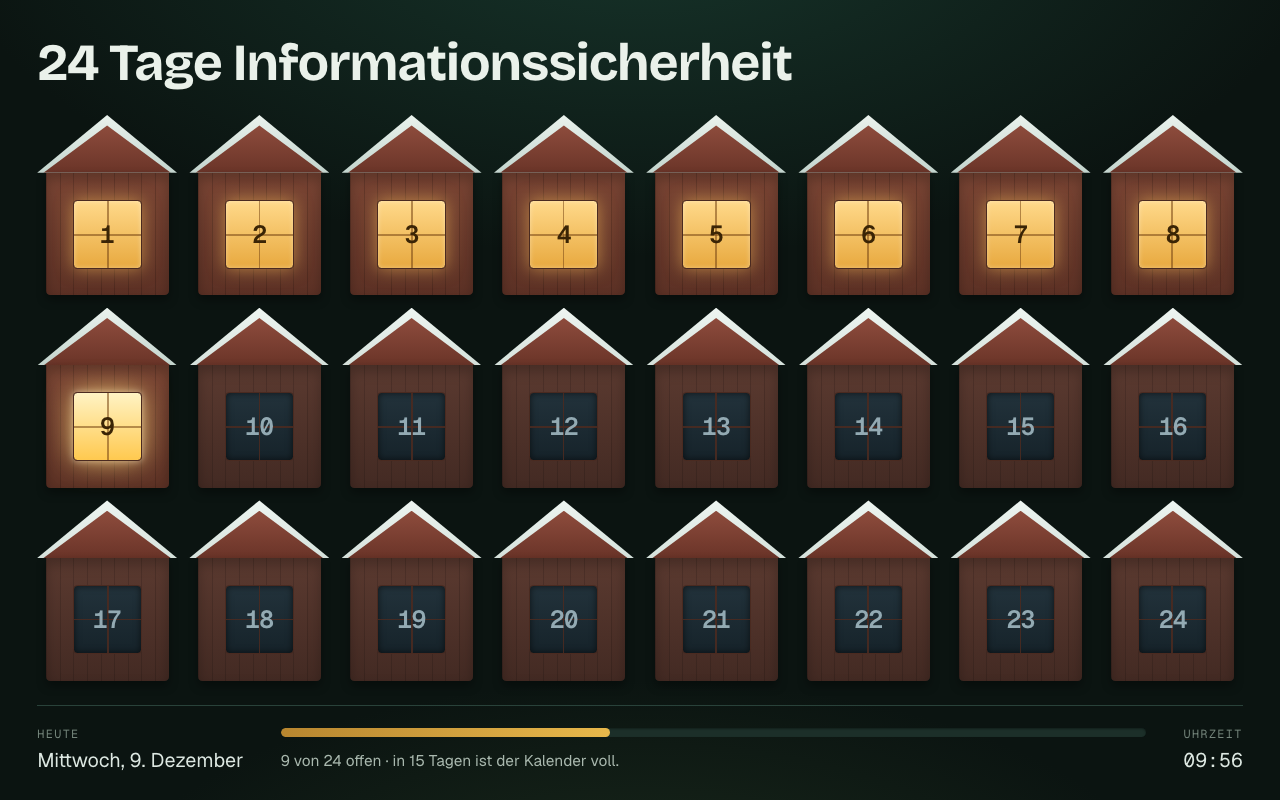
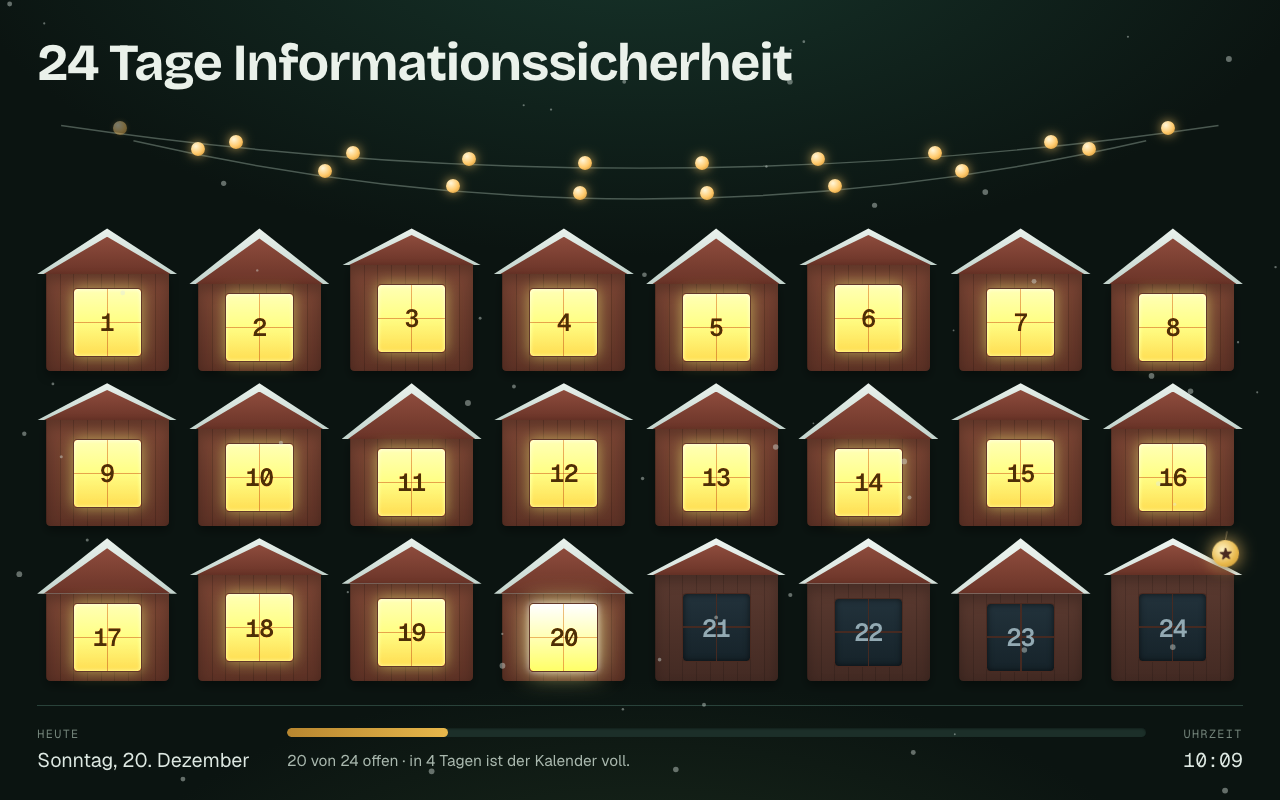
Dorf: Lichterkette, drei Dachhöhen, Sternenschild über Tür 24
Lichterkette: zwei durchhängende Ketten über dem Raster. Die Kurve zeichnet
app.js in echten Pixeln (nicht in einer 100er-ViewBox, sonst wird der
Durchhang auf die flache Leiste gestaucht); die Birnen sind HTML-Punkte
darüber, damit sie rund bleiben, und blinken jede in eigener Phase. Der
Stage-Grid hat jetzt vier Zeilen — die Kette bekam vorher eine implizite
auto-Zeile und drückte das Board über den Rand.

Dachhöhen: drei Varianten im Wechsel, deterministisch aus dem Tag. Das Dorf
wirkt gewachsen, bleibt aber bei jedem Laden gleich.

Sternenschild: hängt seitlich am Dach von Tür 24 und schwingt leicht. Mittig
über dem First ragte es in die Hütte der Reihe darüber.

Selftests decken alle drei ab (drei Dachhöhen, genau ein Schild an Tür 24,
18 Birnen) — 31 grün.

diff --git a/static/app.js b/static/app.js
@@ -148,6 +148,9 @@ function renderBoard() {
     // Eine kleine Holzhütte: Dach mit Schnee, Holzwand, Fenster mit der Zahl.
     const hut = document.createElement("span");
     hut.className = "hut";
+    // Drei Dachhöhen im Wechsel, deterministisch aus dem Tag: Das Dorf wirkt
+    // gewachsen statt gestempelt, bleibt aber bei jedem Laden gleich.
+    hut.dataset.roof = String((day % 3) + 1);
 
     const roof = document.createElement("span");
     roof.className = "hut-roof";
@@ -165,6 +168,16 @@ function renderBoard() {
     window_.appendChild(num);
     body.appendChild(window_);
     hut.append(roof, body);
+
+    if (day === 24) {
+      // Schild über dem Dach: markiert den Heiligabend-Hütte im Dorf.
+      const sign = document.createElement("span");
+      sign.className = "hut-sign";
+      sign.setAttribute("aria-hidden", "true");
+      sign.textContent = "★";
+      hut.appendChild(sign);
+    }
+
     btn.appendChild(hut);
 
     btn.addEventListener("click", () => onDoorClick(day, item, open));
@@ -510,6 +523,84 @@ function snow() {
   requestAnimationFrame(frame);
 }
 
+/* --- Lichterkette ------------------------------------------------------ */
+/* Zwei durchhängende Ketten über dem Dorf. Gezeichnet in echten Pixeln statt
+ * mit CSS: So bleiben die Birnen rund und die Kette hängt glaubwürdig durch.
+ * Gezeichnet wird nur einmal je Größe; die Birnen blinken über CSS. */
+
+function drawGarland() {
+  const host = $("garland");
+  if (!host) return;
+  const width = host.clientWidth;
+  const height = host.clientHeight;
+  if (!width || !height) return;
+
+  const NS = "http://www.w3.org/2000/svg";
+  const svg = document.createElementNS(NS, "svg");
+  // Echte Pixel statt einer 100er-Höhe: sonst wird der Durchhang auf die
+  // flache Leiste gestaucht und die Kette wirkt schnurgerade.
+  svg.setAttribute("viewBox", `0 0 ${width} ${height}`);
+  svg.setAttribute("width", "100%");
+  svg.setAttribute("height", "100%");
+
+  const bulbSize = Math.max(6, Math.min(14, width / 85));
+
+  // Zwei Ketten, die sich nicht kreuzen: die hintere hängt höher und
+  // flacher, die vordere tiefer und stärker durch.
+  // sag ist der Abstand von der Aufhängung bis zum tiefsten Punkt. Bei einer
+  // quadratischen Bézier liegt die Kurve bei der halben Kontrollpunkt-Höhe,
+  // deshalb wird der Kontrollpunkt doppelt so tief gesetzt.
+  // Die zweite Kette hängt vollständig unter der ersten — gleiche Aufhängung
+  // an den Rändern würde sie in der Mitte kreuzen und wie ein X wirken.
+  const chains = [
+    { from: 0.02, to: 0.98, top: height * 0.06, sag: height * 0.50, count: 10 },
+    { from: 0.08, to: 0.92, top: height * 0.24, sag: height * 0.68, count: 8 },
+  ];
+
+  const bulbs = [];
+  for (const c of chains) {
+    const x0 = width * c.from;
+    const x1 = width * c.to;
+    const cx = (x0 + x1) / 2;
+    const y = c.top;
+    const bottom = y + c.sag * 2;
+    const d = `M ${x0} ${y} Q ${cx} ${bottom} ${x1} ${y}`;
+
+    const path = document.createElementNS(NS, "path");
+    path.setAttribute("d", d);
+    path.setAttribute("fill", "none");
+    path.setAttribute("stroke", "rgb(150 170 158 / 0.45)");
+    path.setAttribute("stroke-width", "1.5");
+    svg.appendChild(path);
+
+    // Birnen auf der quadratischen Bézier verteilen
+    for (let i = 0; i < c.count; i++) {
+      const t = (i + 0.5) / c.count;
+      const mt = 1 - t;
+      bulbs.push({
+        x: mt * mt * x0 + 2 * mt * t * cx + t * t * x1,
+        y: mt * mt * y + 2 * mt * t * bottom + t * t * y,
+        i: bulbs.length,
+      });
+    }
+  }
+
+  // Birnen als HTML-Punkte über dem SVG: So bleiben sie rund.
+  host.replaceChildren(svg);
+  for (const b of bulbs) {
+    const dot = document.createElement("span");
+    dot.className = "bulb";
+    dot.style.left = `${b.x}px`;
+    dot.style.top = `${b.y}px`;
+    dot.style.width = `${bulbSize}px`;
+    dot.style.height = `${bulbSize}px`;
+    // Unregelmäßiges Blinken: jede Birne hat ihre eigene Phase.
+    dot.style.animationDelay = `${(b.i * 0.37) % 3}s`;
+    dot.style.animationDuration = `${2.4 + (b.i % 4) * 0.45}s`;
+    host.appendChild(dot);
+  }
+}
+
 /* --- Listenansicht (?liste=1) ------------------------------------------ */
 /* Zum Korrekturlesen aller Texte auf einem Blick, ohne 24-mal zu klicken.
  * Bewusst ohne Schnee und ohne Automatik: Es geht ums Lesen. */
@@ -517,6 +608,7 @@ function snow() {
 function renderList() {
   const stage = document.querySelector(".stage");
   document.querySelector("canvas")?.remove();
+  document.querySelector(".garland")?.remove();
   document.querySelector(".foot")?.remove();
   document.querySelector(".masthead")?.remove();
 
@@ -613,6 +705,7 @@ async function start() {
   }
 
   snow();
+  drawGarland();
 
   if (params.get("tur")) {
     const forced = Number(params.get("tur"));
@@ -624,6 +717,12 @@ async function start() {
   setInterval(tick, 1000);
   tick();
 }
+
+let garlandTimer = null;
+addEventListener("resize", () => {
+  clearTimeout(garlandTimer);
+  garlandTimer = setTimeout(drawGarland, 150);
+});
 
 /* Eingaben, die die Automatik pausieren und den Dialog schließen. */
 addEventListener("pointerdown", () => pauseAuto(), { passive: true });

diff --git a/static/style.css b/static/style.css
@@ -109,7 +109,9 @@
     min-height: 100svh;
     height: 100svh;
     display: grid;
-    grid-template-rows: auto minmax(0, 1fr) auto;
+    /* Kopf · Lichterkette · Dorf · Fuß. Die Kette bekommt ihre eigene Zeile,
+     * sonst landet das Board in einer impliziten auto-Zeile und läuft über. */
+    grid-template-rows: auto auto minmax(0, 1fr) auto;
     /* Grid-Kinder haben min-width:auto — ohne das schiebt ein langer Text
      * die ganze Seite breiter als den Bildschirm. */
     grid-template-columns: minmax(0, 1fr);
@@ -138,6 +140,35 @@
     /* Kein max-width: Der Titel bricht an der Wortgrenze um
      * („24 Tage" / „Informationssicherheit") statt mitten im Wort. */
     text-wrap: balance;
+  }
+
+  /* --- Lichterkette ----------------------------------------------------- */
+  /* Zwei Ketten hängen über dem Dorf. Die Kurve zeichnet app.js in SVG,
+   * die Birnen sind HTML-Punkte darüber — so bleiben sie rund und blinken
+   * unabhängig voneinander. */
+  .garland {
+    position: relative;
+    /* Genug Höhe für einen sichtbaren Durchhang: Bei 1280 × 800 sind das
+     * 96 px, auf dem Kiosk entsprechend mehr. */
+    height: clamp(3rem, 12svmin, 9rem);
+    pointer-events: none;
+    /* Die unteren Birnen hängen leicht in den Rand des Rasters hinein. */
+    margin-bottom: calc(var(--u) * -0.6);
+    overflow: visible;
+  }
+  .garland svg { display: block; width: 100%; height: 100%; }
+  .bulb {
+    position: absolute;
+    border-radius: 50%;
+    transform: translate(-50%, -50%);
+    background: radial-gradient(circle at 35% 30%, #FFF6D8, #FFC96B 55%, #C98A2A);
+    box-shadow: 0 0 calc(var(--u) * 0.9) rgb(255 205 110 / 0.75);
+    animation: bulb-twinkle 2.8s ease-in-out infinite;
+  }
+
+  @keyframes bulb-twinkle {
+    0%, 100% { opacity: 0.45; box-shadow: 0 0 calc(var(--u) * 0.4) rgb(255 205 110 / 0.35); }
+    50%      { opacity: 1;    box-shadow: 0 0 calc(var(--u) * 1.2) rgb(255 215 130 / 0.9); }
   }
 
   /* --- Raster ----------------------------------------------------------- */
@@ -179,6 +210,12 @@
     height: 100%;
     transition: transform 160ms ease;
   }
+
+  /* Drei Dachhöhen im Wechsel — ein Dorf, kein Stempelraster. Der Anteil
+   * geht zu Lasten der Wand, die Hütte bleibt gleich hoch. */
+  .hut[data-roof="1"] { grid-template-rows: 26% 74%; }
+  .hut[data-roof="2"] { grid-template-rows: 32% 68%; }
+  .hut[data-roof="3"] { grid-template-rows: 39% 61%; }
 
   /* --- Dach -------------------------------------------------------------- */
   /* Schnee liegt auf den Schrägen: eine weiße Dreiecksfläche, darauf das
@@ -285,6 +322,48 @@
   }
   .door.is-future .hut-roof {
     background: linear-gradient(180deg, #EEF5F1, #D6E2DC);
+  }
+
+  /* --- Schild über Tür 24 ----------------------------------------------- */
+  /* Ein kleines Sternenschild über dem Dach markiert den Heiligabend. Es
+   * sitzt über der Hütte, nicht in ihr — deshalb absolut im Türfeld. */
+  /* Das Schild hängt seitlich am Dachfirst — dort ist im Raster Platz, ohne
+   * in die Hütte der Reihe darüber zu ragen. */
+  .hut-sign {
+    position: absolute;
+    top: calc(var(--u) * 0.15);
+    right: calc(var(--u) * 0.25);
+    display: grid;
+    place-items: center;
+    width: calc(var(--u) * 2.2);
+    height: calc(var(--u) * 2.2);
+    border-radius: 50%;
+    background: radial-gradient(circle at 40% 35%, #FFF3C4, #E8B84B 60%, #B8862F);
+    color: #4A2A20;
+    font-size: calc(var(--u) * 1.15);
+    line-height: 1;
+    box-shadow: 0 0 calc(var(--u) * 1.4) rgb(255 205 110 / 0.8),
+                0 calc(var(--u) * 0.25) calc(var(--u) * 0.5) rgb(0 0 0 / 0.4);
+    animation: sign-sway 4.5s ease-in-out infinite;
+    pointer-events: none;
+  }
+  /* Kleine Aufhängung: zwei Fäden zum Dachfirst */
+  /* Aufhängung: ein kurzer Faden nach oben links zum Dach. */
+  .hut-sign::before {
+    content: "";
+    position: absolute;
+    top: calc(var(--u) * -0.7);
+    left: 50%;
+    width: 1px;
+    height: calc(var(--u) * 0.7);
+    background: rgb(200 170 120 / 0.5);
+    transform-origin: bottom center;
+    transform: rotate(14deg);
+  }
+
+  @keyframes sign-sway {
+    0%, 100% { transform: rotate(-4deg); }
+    50%      { transform: rotate(4deg); }
   }
 
   .door:not([aria-disabled="true"]):hover .hut { transform: translateY(calc(var(--u) * -0.3)); }
@@ -571,7 +650,7 @@
       padding: var(--s-4) var(--s-3) var(--s-3);
       min-height: 0;
       height: auto;
-      grid-template-rows: auto auto auto;
+      grid-template-rows: auto auto auto auto;
     }
     .detail { padding: var(--s-3); }
     .detail-card { gap: var(--s-4); padding: var(--s-4); }
@@ -584,6 +663,13 @@
     }
     .board > li { aspect-ratio: 1 / 0.8; }
     .door-day { font-size: clamp(0.8rem, 4.2svmin, 1.6rem); }
+    .hut-sign {
+      width: calc(var(--u) * 1.7);
+      height: calc(var(--u) * 1.7);
+      font-size: calc(var(--u) * 0.9);
+      top: calc(var(--u) * 0.1);
+      right: calc(var(--u) * 0.1);
+    }
     .title {
       font-size: var(--text-xl);
       /* „Informationssicherheit" hat keine Trennstelle und passt hier nicht

diff --git a/_selftest.html b/_selftest.html
@@ -77,6 +77,7 @@ const sleep = (ms) => new Promise((r) => setTimeout(r, ms));
   ok("Liste im November trotzdem vollständig", cards.length === 24);
   ok("Quiz-Lösung hervorgehoben", d.querySelectorAll(".list-options .is-right").length > 0);
   ok("kein Raster in der Liste", d.querySelectorAll(".door").length === 0);
+  ok("keine Lichterkette in der Liste", d.querySelectorAll(".garland").length === 0);
   f.remove();
 
   // 7) Testmodus ?alle=1: alle offen, bleibt auch nach mehreren Ticks offen
@@ -91,6 +92,18 @@ const sleep = (ms) => new Promise((r) => setTimeout(r, ms));
   ok("?alle=1: Türchen öffnet sich", !d.getElementById("detail").hidden);
   ok("?alle=1: richtiges Türchen (5)", /Passwortschule|Länge schlägt/.test(
      d.querySelector(".detail-card")?.textContent || ""));
+  f.remove();
+
+  // 8) Dorf-Details: Dachhöhen wechseln, Tür 24 hat ein Schild, Birnen hängen
+  f = await load("?alle=1&auto=aus");
+  d = f.contentDocument;
+  const roofs = new Set([...d.querySelectorAll(".hut")].map((h) => h.dataset.roof));
+  ok("drei Dachhöhen im Dorf", roofs.size === 3, [...roofs].join(","));
+  ok("genau ein Schild (Tür 24)", d.querySelectorAll(".hut-sign").length === 1);
+  ok("Schild hängt an Tür 24",
+     !!d.querySelector('.door[data-day="24"] .hut-sign'));
+  ok("Lichterkette mit Birnen", d.querySelectorAll(".bulb").length > 8,
+     String(d.querySelectorAll(".bulb").length));
   f.remove();
 
   document.getElementById("out").textContent = results.join("\n");

diff --git a/index.html b/index.html
@@ -15,6 +15,8 @@
     <h1 class="title" id="title">24 Tage Informationssicherheit</h1>
   </header>
 
+  <div class="garland" id="garland" aria-hidden="true"></div>
+
   <ol class="board" id="board" aria-label="Adventskalender">
     <noscript><li class="board-error">Bitte JavaScript einschalten – der Kalender braucht es.</li></noscript>
   </ol>

diff --git a/README.md b/README.md
@@ -24,6 +24,8 @@ es dafür `tools/kiosk.sh` — siehe [Kiosk](#kiosk-linux-mint).
 - Jedes Türchen ist eine kleine Hütte: Satteldach mit Schnee, Holzwand, ein
   Fenster mit der Tageszahl. Geschlossen ist das Fenster dunkel, geöffnet
   leuchtet es warm — heute am hellsten.
+- Über dem Dorf hängen zwei Lichterketten mit blinkenden Birnen; die Dächer
+  haben drei Höhen im Wechsel, und über Tür 24 hängt ein Sternenschild.
 - **Heute** ist gold hinterlegt und wird zuerst gezeigt.
 - **Automatik**: Ohne Berührung öffnet sich alle ~35 s ein offenes Türchen und
   bleibt 30 s stehen. Ungelesene kommen zuerst dran. Wer den Bildschirm
